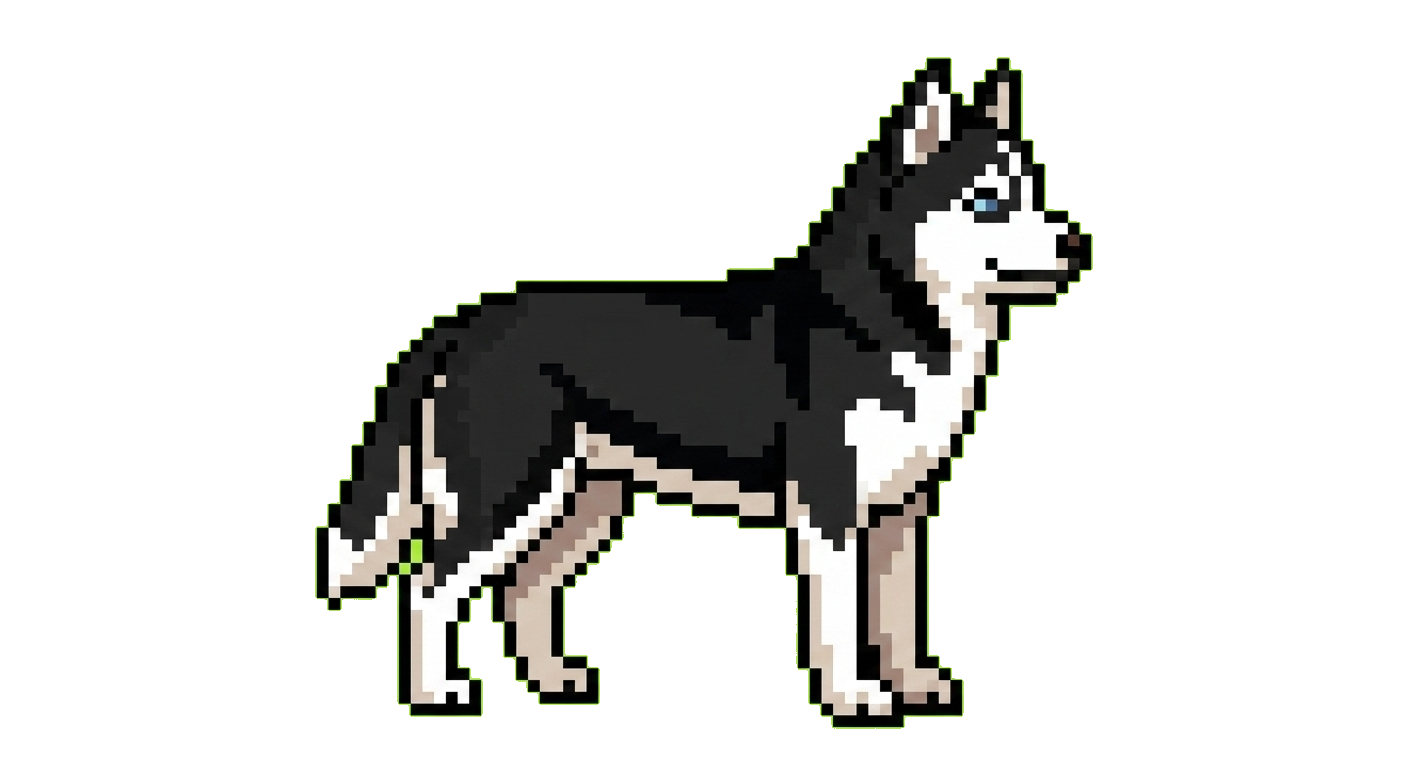
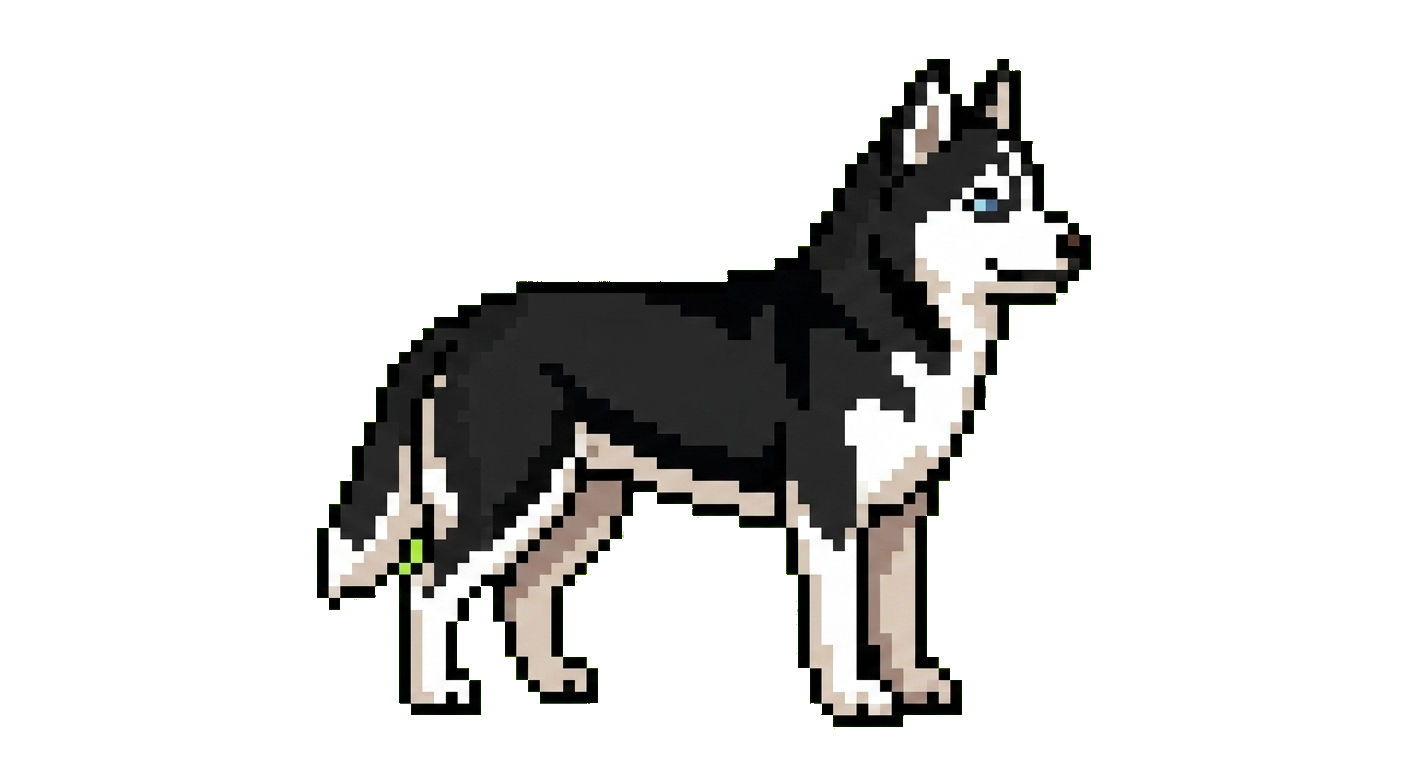
Normalize preset pet canonicals: strip background halo, match Choco framing
Walkthrough 2026-08-30 found the 7 newer presets render smaller than
Choco (1408x768 landscape canvases leave the subject a small fraction
of the fit-to-box canvas) with a leftover background-colour halo on the
silhouette (flood fill stops at mixed edge pixels).

Adds tools/rig_pipeline/normalize.py: halo strip (boundary pixels closer
to the background colour than to the body just inside, so intentional
dark outlines survive) plus re-framing of front/sleep onto Choco-
reference canvases with the same affine applied to rig front boxes,
pivots, and groundY. Side framing is untouched — the 192x208 display box
cannot hold a side pose at front-pose scale. Applied to all 7 packs;
goldens refreshed and eyeballed; verified on the Android emulator with
Ink at Choco size and clean edges on light and dark backdrops.

Changed region(s): [[0.2812, 0.9062, 0.3438, 0.9375], [0.6562, 0.9062, 0.6875, 0.9375]]

diff --git a/tools/rig_pipeline/normalize.py b/tools/rig_pipeline/normalize.py
@@ -1,0 +1,205 @@
+"""Post-generation canonical image normalisation.
+
+Two defects escaped the original preset batch (walkthrough 2026-08-30):
+
+1. A 1–2 px halo of leftover background colour hugs the silhouette because the
+   flood fill in :mod:`background` stops at mixed edge pixels.
+2. The generated 1408x768 landscape canvases leave the subject a far smaller
+   fraction of the canvas than Choco's 1024x1024 reference, so the fit-to-box
+   renderer draws every newer pet visibly smaller than Choco.
+
+This module fixes both on an existing unpacked pack directory: it strips the
+background halo from every canonical image, then re-frames front-open,
+front-closed, and sleep onto Choco-reference canvases and applies the same
+affine to the rig's front section. The side canvas is left untouched — the
+192x208 display box cannot hold a side pose at front-pose body scale, so its
+original framing already is the correct one.
+
+Usage: python3 -m tools.rig_pipeline.normalize assets/pets/blackcat [more...]
+"""
+
+from __future__ import annotations
+
+import json
+import sys
+from math import sqrt
+from pathlib import Path
+from typing import Any
+
+from PIL import Image, ImageChops, ImageFilter
+
+# Choco (the reference pet) framing, measured from its shipped canonicals:
+# front content fits an 830x830 box on a 1024x1024 canvas with its feet on
+# y=932; sleep content fits 1081x552 on 1408x768 with its body on y=681.
+FRONT_CANVAS = (1024, 1024)
+FRONT_CONTENT_BOX = (830, 830)
+FRONT_BASELINE = 932
+SLEEP_CANVAS = (1408, 768)
+SLEEP_CONTENT_BOX = (1081, 552)
+SLEEP_BASELINE = 681
+
+_OPAQUE_THRESHOLD = 128
+_MAX_HALO_RINGS = 3
+
+
+def _distance(left: tuple[int, ...], right: tuple[int, ...]) -> float:
+    return sqrt(sum((a - b) ** 2 for a, b in zip(left, right)))
+
+
+def _background_colour(image: Image.Image) -> tuple[int, int, int]:
+    """The flood fill keeps RGB under the transparent pixels — read a corner."""
+
+    pixel = image.getpixel((0, 0))
+    if pixel[3] >= _OPAQUE_THRESHOLD:
+        raise ValueError("top-left corner is opaque; not a background-removed canonical")
+    return pixel[:3]
+
+
+def strip_background_halo(image: Image.Image) -> Image.Image:
+    """Erase boundary pixels that are closer to the background colour than to
+    the body colour just inside them.
+
+    Intentional dark pixel-art outlines survive: an outline pixel's inward
+    neighbour is more outline, so it is never closer to the background.
+    """
+
+    result = image.convert("RGBA")
+    background = _background_colour(result)
+    pixels = result.load()
+
+    for _ in range(_MAX_HALO_RINGS):
+        mask = result.getchannel("A").point(lambda a: 255 if a >= _OPAQUE_THRESHOLD else 0)
+        boundary = ImageChops.subtract(mask, mask.filter(ImageFilter.MinFilter(3)))
+        # The body reference must sit beneath the halo, which can be 2 px deep
+        # with both rings halo-coloured — sample from the twice-eroded core so
+        # a halo pixel is never judged against its halo neighbour.
+        core = mask.filter(ImageFilter.MinFilter(5))
+        box = boundary.getbbox()
+        if box is None:
+            break
+        boundary_pixels = boundary.load()
+        core_pixels = core.load()
+        stripped = []
+        for y in range(box[1], box[3]):
+            for x in range(box[0], box[2]):
+                if not boundary_pixels[x, y]:
+                    continue
+                neighbours = [
+                    pixels[nx, ny][:3]
+                    for ny in range(max(0, y - 2), min(result.height, y + 3))
+                    for nx in range(max(0, x - 2), min(result.width, x + 3))
+                    if core_pixels[nx, ny]
+                ]
+                if not neighbours:
+                    continue  # thin feature (whisker, ear tip); never strip those
+                inward = tuple(sum(channel) // len(neighbours) for channel in zip(*neighbours))
+                colour = pixels[x, y][:3]
+                # The 1.5 margin also catches mixture pixels leaning body-ward,
+                # which otherwise survive as sparse fringe on dark backdrops.
+                if _distance(colour, background) < 1.5 * _distance(colour, inward):
+                    stripped.append((x, y))
+        if not stripped:
+            break
+        for x, y in stripped:
+            pixels[x, y] = (*pixels[x, y][:3], 0)
+    return result
+
+
+def _reframe(
+    images: list[Image.Image],
+    canvas: tuple[int, int],
+    content_box: tuple[int, int],
+    baseline: int,
+) -> tuple[list[Image.Image], tuple[float, int, int, int, int]]:
+    """Scale the union content of *images* into *content_box*, bottom-anchored
+    at *baseline* and horizontally centred on *canvas*.
+
+    Returns the new images plus the affine (scale, bx0, by0, ox, oy) mapping an
+    old coordinate p to round((p - b0) * scale + o).
+    """
+
+    boxes = [image.getchannel("A").getbbox() for image in images]
+    if any(box is None for box in boxes):
+        raise ValueError("cannot reframe an empty image")
+    bx0 = min(box[0] for box in boxes)
+    by0 = min(box[1] for box in boxes)
+    bx1 = max(box[2] for box in boxes)
+    by1 = max(box[3] for box in boxes)
+    content_width = bx1 - bx0
+    content_height = by1 - by0
+    scale = min(content_box[0] / content_width, content_box[1] / content_height)
+    new_width = round(content_width * scale)
+    new_height = round(content_height * scale)
+    ox = (canvas[0] - new_width) // 2
+    oy = baseline - new_height
+
+    reframed = []
+    for image in images:
+        # NEAREST keeps the hard stair-stepped pixel edges the style demands.
+        content = image.crop((bx0, by0, bx1, by1)).resize((new_width, new_height), Image.Resampling.NEAREST)
+        page = Image.new("RGBA", canvas, (0, 0, 0, 0))
+        page.paste(content, (ox, oy))
+        reframed.append(page)
+    return reframed, (scale, bx0, by0, ox, oy)
+
+
+def _map_point(x: float, y: float, affine: tuple[float, int, int, int, int], canvas: tuple[int, int]) -> list[int]:
+    scale, bx0, by0, ox, oy = affine
+    return [
+        min(canvas[0], max(0, round((x - bx0) * scale + ox))),
+        min(canvas[1], max(0, round((y - by0) * scale + oy))),
+    ]
+
+
+def _transform_front_rig(front: dict[str, Any], affine: tuple[float, int, int, int, int]) -> dict[str, Any]:
+    transformed: dict[str, Any] = dict(front)
+    transformed["groundY"] = _map_point(0, front["groundY"], affine, FRONT_CANVAS)[1]
+    transformed["boxes"] = {
+        name: _map_point(box[0], box[1], affine, FRONT_CANVAS) + _map_point(box[2], box[3], affine, FRONT_CANVAS)
+        for name, box in front["boxes"].items()
+    }
+    transformed["pivots"] = {
+        name: _map_point(pivot[0], pivot[1], affine, FRONT_CANVAS)
+        for name, pivot in front["pivots"].items()
+    }
+    return transformed
+
+
+def normalize_pack_dir(directory: str | Path) -> None:
+    """Normalise an unpacked rig pack v3 directory in place."""
+
+    directory = Path(directory)
+    rig_path = directory / "rig.json"
+    rig = json.loads(rig_path.read_text())
+
+    loaded = {
+        name: strip_background_halo(Image.open(directory / f"{name}.png"))
+        for name in ("front-open", "front-closed", "sleep", "side")
+        if (directory / f"{name}.png").exists()
+    }
+
+    fronts, affine = _reframe(
+        [loaded["front-open"], loaded["front-closed"]], FRONT_CANVAS, FRONT_CONTENT_BOX, FRONT_BASELINE
+    )
+    loaded["front-open"], loaded["front-closed"] = fronts
+    rig["front"] = _transform_front_rig(rig["front"], affine)
+
+    (loaded["sleep"],), _ = _reframe([loaded["sleep"]], SLEEP_CANVAS, SLEEP_CONTENT_BOX, SLEEP_BASELINE)
+
+    for name, image in loaded.items():
+        image.save(directory / f"{name}.png", format="PNG")
+    rig_path.write_text(json.dumps(rig, separators=(",", ":")))
+
+
+def main(argv: list[str]) -> int:
+    if not argv:
+        print("usage: python3 -m tools.rig_pipeline.normalize <pack-dir> [more...]", file=sys.stderr)
+        return 2
+    for directory in argv:
+        normalize_pack_dir(directory)
+        print(f"normalized {directory}")
+    return 0
+
+
+if __name__ == "__main__":
+    raise SystemExit(main(sys.argv[1:]))

diff --git a/tools/rig_pipeline/tests/test_normalize.py b/tools/rig_pipeline/tests/test_normalize.py
@@ -1,0 +1,86 @@
+import json
+
+from PIL import Image, ImageDraw
+
+from tools.rig_pipeline.normalize import (
+    FRONT_BASELINE,
+    FRONT_CANVAS,
+    FRONT_CONTENT_BOX,
+    normalize_pack_dir,
+    strip_background_halo,
+)
+
+
+BG = (12, 200, 212)
+BODY = (40, 40, 45)
+OUTLINE = (20, 15, 12)
+
+
+def _canonical(size=(200, 120), body_box=(60, 30, 140, 100), halo_rings=2) -> Image.Image:
+    """A background-removed canonical: body + dark outline + leftover bg halo."""
+
+    image = Image.new("RGBA", size, (*BG, 0))
+    draw = ImageDraw.Draw(image)
+    x0, y0, x1, y1 = body_box
+    for ring in range(halo_rings):
+        grow = halo_rings - ring
+        mix = tuple((b + p) // 2 for b, p in zip(BG, BODY))
+        draw.rectangle((x0 - grow, y0 - grow, x1 + grow, y1 + grow), fill=(*mix, 255))
+    draw.rectangle(body_box, fill=(*OUTLINE, 255))
+    draw.rectangle((x0 + 2, y0 + 2, x1 - 2, y1 - 2), fill=(*BODY, 255))
+    return image
+
+
+def test_strip_background_halo_removes_halo_and_keeps_outline():
+    result = strip_background_halo(_canonical())
+
+    assert result.getpixel((58, 65))[3] == 0  # halo ring gone
+    assert result.getpixel((59, 65))[3] == 0
+    assert result.getpixel((60, 65)) == (*OUTLINE, 255)  # intentional outline kept
+    assert result.getpixel((100, 65)) == (*BODY, 255)
+
+
+def test_strip_background_halo_keeps_thin_features():
+    image = _canonical(halo_rings=0)
+    draw = ImageDraw.Draw(image)
+    draw.line((100, 29, 100, 10), fill=(*OUTLINE, 255), width=1)  # whisker
+
+    result = strip_background_halo(image)
+
+    assert result.getpixel((100, 15))[3] == 255
+
+
+def test_normalize_pack_dir_reframes_front_and_rig(tmp_path):
+    for name in ("front-open", "front-closed"):
+        _canonical().save(tmp_path / f"{name}.png")
+    _canonical(body_box=(40, 60, 180, 110)).save(tmp_path / "sleep.png")
+    _canonical().save(tmp_path / "side.png")
+    rig = {
+        "rigVersion": 1,
+        "front": {
+            "groundY": 100,
+            "boxes": {"head": [60, 30, 140, 60]},
+            "pivots": {"head": [100, 60]},
+        },
+    }
+    (tmp_path / "rig.json").write_text(json.dumps(rig))
+
+    normalize_pack_dir(tmp_path)
+
+    front = Image.open(tmp_path / "front-open.png").convert("RGBA")
+    assert front.size == FRONT_CANVAS
+    box = front.getchannel("A").getbbox()
+    assert box[3] == FRONT_BASELINE
+    assert max(box[2] - box[0], box[3] - box[1]) in (FRONT_CONTENT_BOX[0], FRONT_CONTENT_BOX[0] - 1)
+    closed = Image.open(tmp_path / "front-closed.png").convert("RGBA")
+    assert closed.size == FRONT_CANVAS
+
+    reframed = json.loads((tmp_path / "rig.json").read_text())["front"]
+    # groundY indexes the bottom content row, whose top edge lands one scaled
+    # pixel above the baseline — this fixture's ~11.5x scale magnifies that.
+    assert FRONT_BASELINE - 12 <= reframed["groundY"] <= FRONT_BASELINE
+    head = reframed["boxes"]["head"]
+    assert 0 <= head[0] < head[2] <= FRONT_CANVAS[0]
+    assert 0 <= head[1] < head[3] <= FRONT_CANVAS[1]
+    # Side canvas is deliberately untouched (its framing already fits the display box).
+    assert Image.open(tmp_path / "side.png").size == (200, 120)
